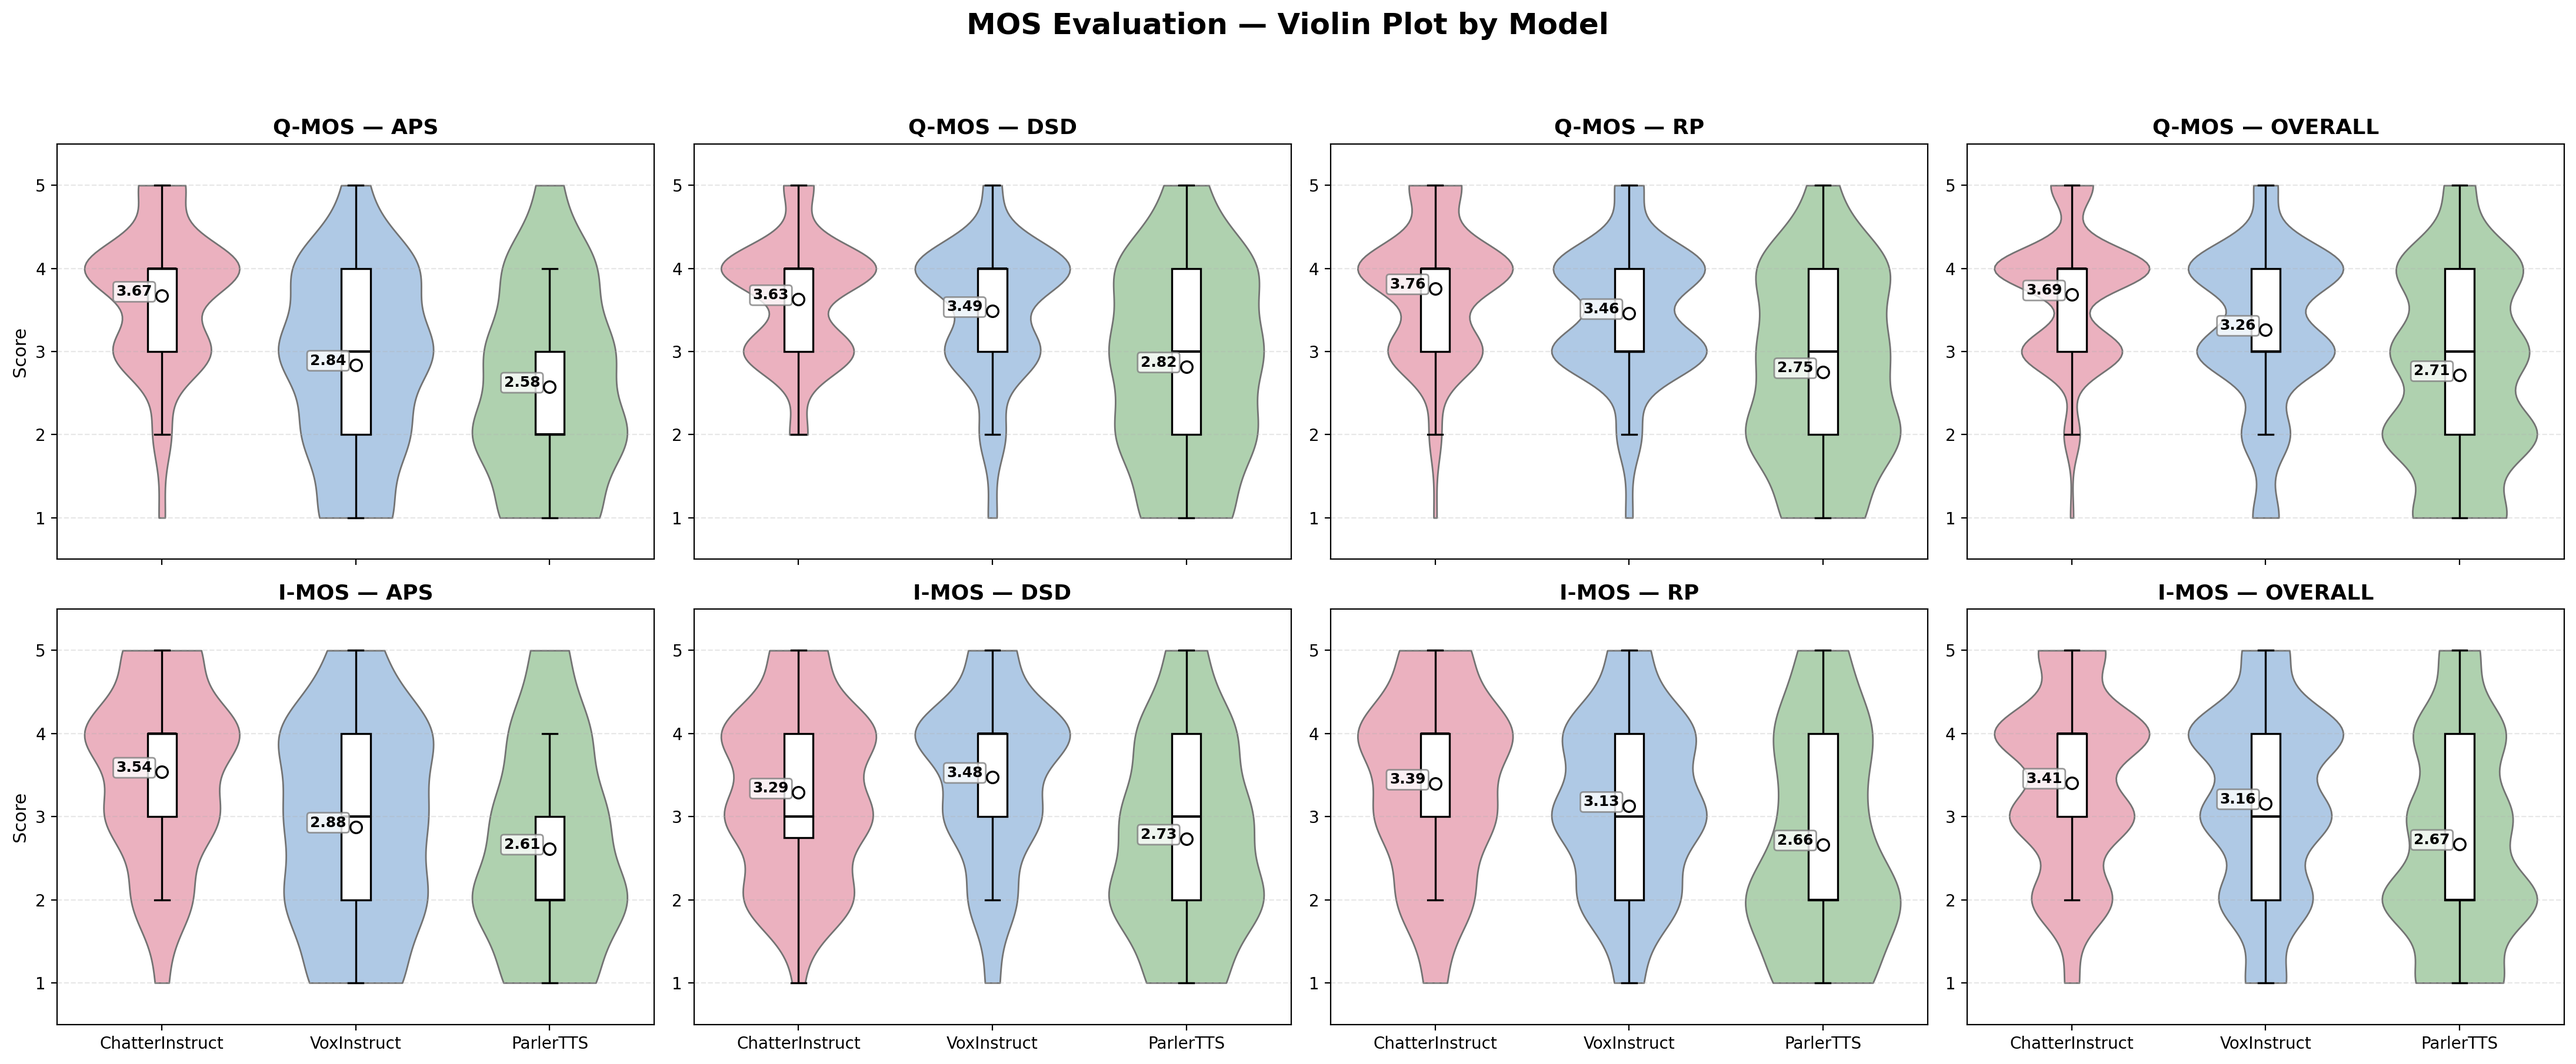
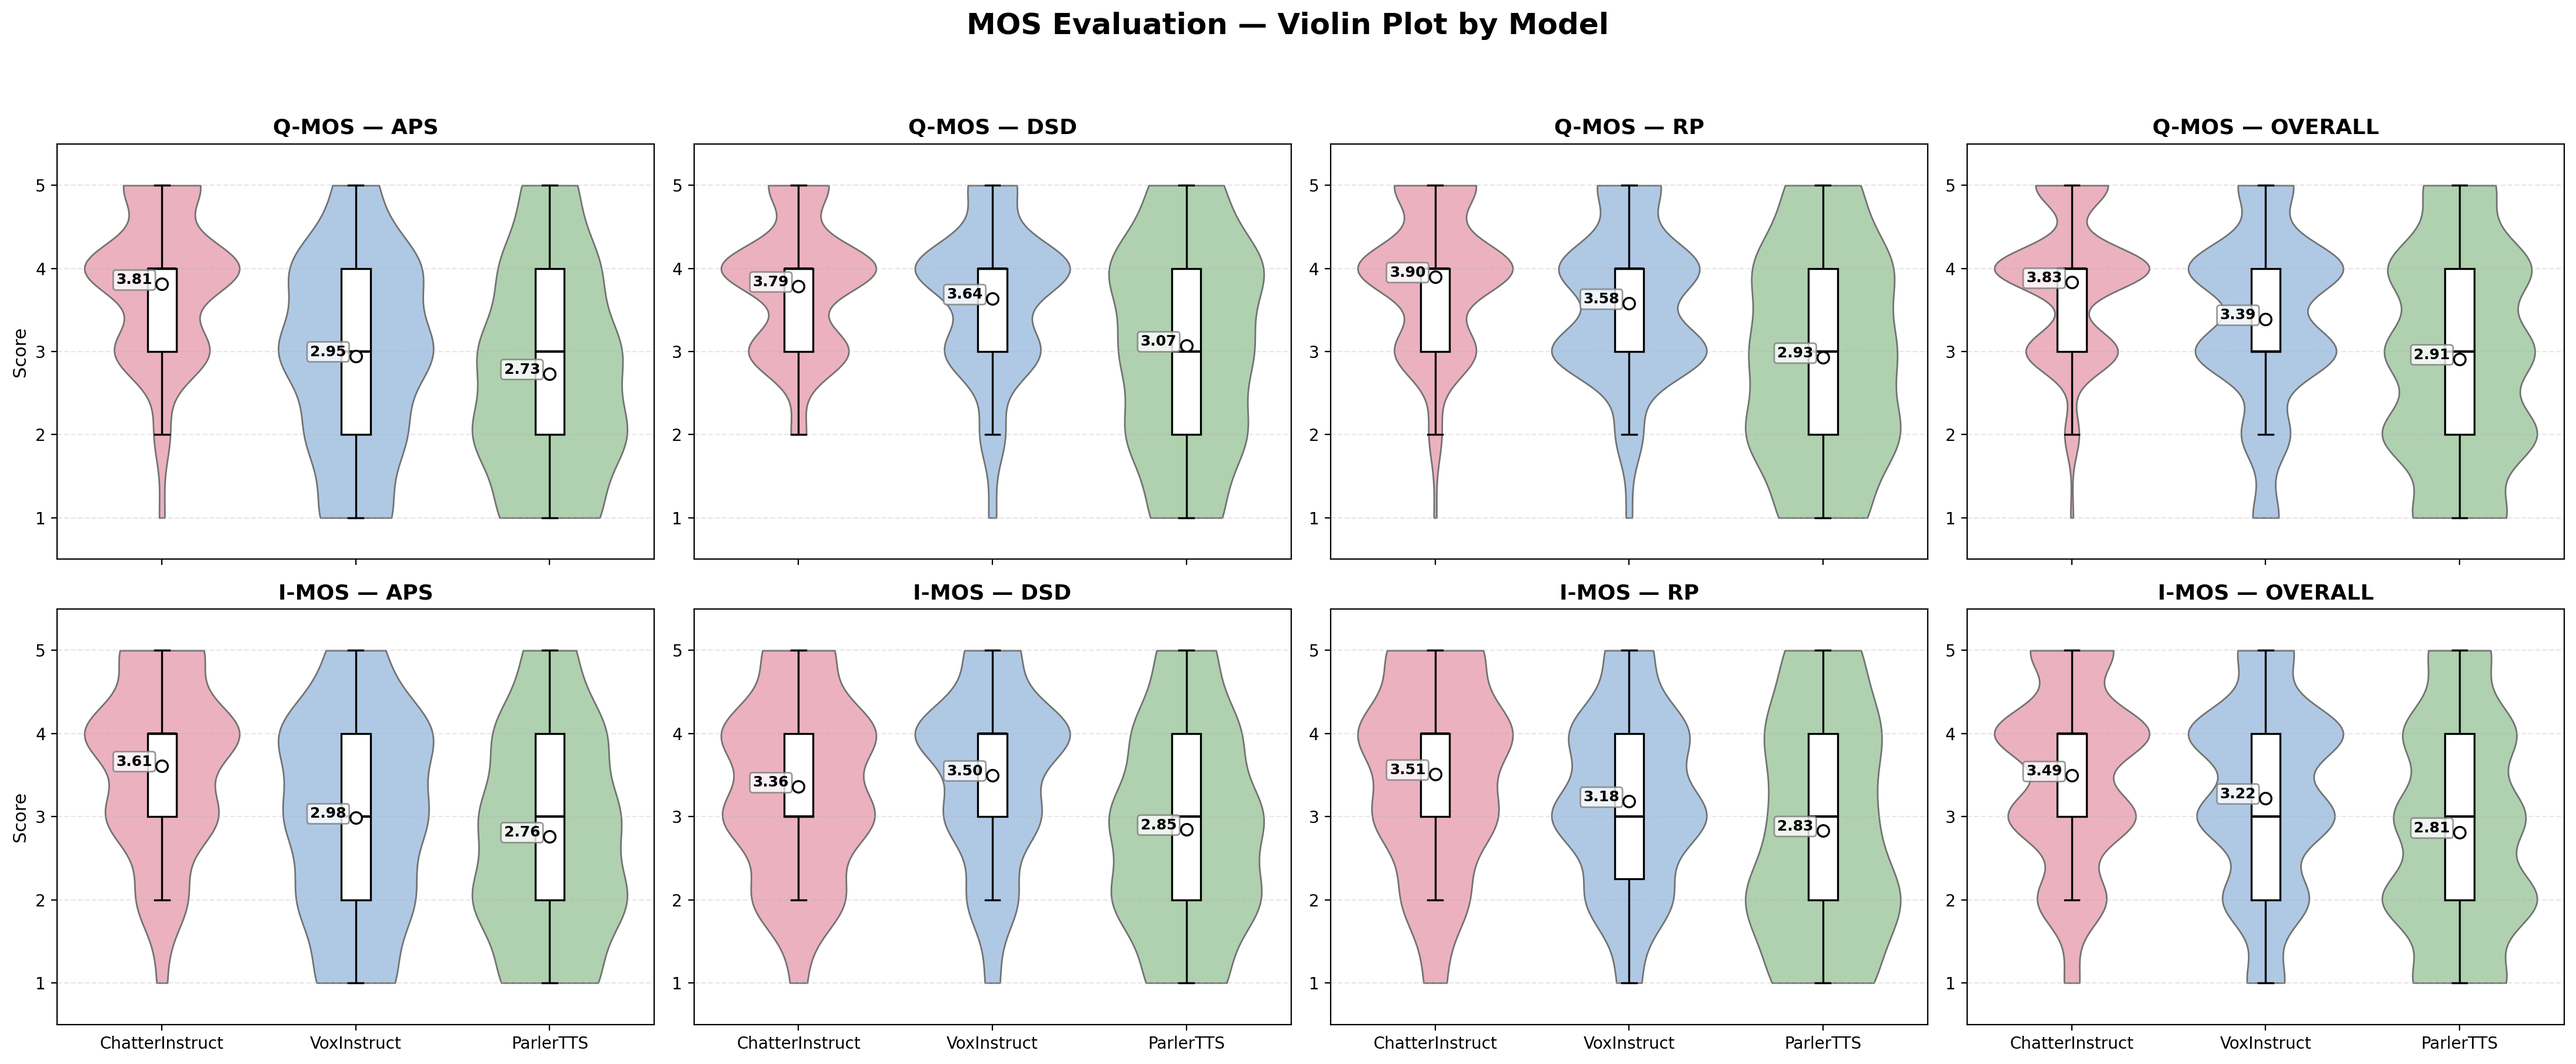
modify score

diff --git a/index.html b/index.html
@@ -153,8 +153,8 @@
             Flan-T5 encoder with Dual-Query attention pooling extracts separate identity and style vectors from a single
             instruction. A conditional flow-matching mapper generates speaker latents from the identity vector, while
             AdaRMSNorm adapters inject style into a frozen Llama backbone without disturbing speaker characteristics. A
-            two-stage training strategy enforces this separation by construction. ChatterInstruct surpasses robust
-            baselines including GPT-4o-mini-TTS on InstructTTSEval, while attaining competitive zero-shot speaker
+            two-stage training strategy enforces this separation by construction. ChatterInstruct surpasses strong
+            baselines including GPT-4o-mini-TTS on InstructTTSEval, while attaining strong zero-shot speaker
             similarity on LibriTTS-R.
         </div>
 
@@ -226,14 +226,47 @@
                         Open-sourced</td>
                 </tr>
                 <tr>
+                    <td style="text-align: left;">PromptTTS</td>
+                    <td>64.3</td>
+                    <td>47.2</td>
+                    <td>31.4</td>
+                    <td>47.6</td>
+                    <td>-</td>
+                    <td>-</td>
+                    <td>-</td>
+                    <td>-</td>
+                </tr>
+                <tr>
+                    <td style="text-align: left;">PromptStyle</td>
+                    <td>57.4</td>
+                    <td>46.4</td>
+                    <td>30.9</td>
+                    <td>44.9</td>
+                    <td>-</td>
+                    <td>-</td>
+                    <td>-</td>
+                    <td>-</td>
+                </tr>
+                <tr>
+                    <td style="text-align: left;">Parler-TTS-large</td>
+                    <td>60.0</td>
+                    <td>45.9</td>
+                    <td>31.2</td>
+                    <td>45.7</td>
+                    <td>-</td>
+                    <td>-</td>
+                    <td>-</td>
+                    <td>-</td>
+                </tr>
+                <tr>
                     <td style="text-align: left;">Parler-TTS-mini</td>
                     <td>63.4</td>
                     <td>48.7</td>
                     <td>28.6</td>
                     <td>46.9</td>
                     <td>0.716 &pm; 0.119</td>
-                    <td>2.714 &pm; 0.128</td>
-                    <td>2.670 &pm; 0.134</td>
+                    <td>2.911 &pm; 0.123</td>
+                    <td>2.813 &pm; 0.124</td>
                     <td>11.1</td>
                 </tr>
                 <tr>
@@ -243,8 +276,8 @@
                     <td>39.3</td>
                     <td>50.4</td>
                     <td>0.740 &pm; 0.118</td>
-                    <td>3.260 &pm; 0.108</td>
-                    <td>3.159 &pm; 0.124</td>
+                    <td>3.387 &pm; 0.103</td>
+                    <td>3.223 &pm; 0.110</td>
                     <td>24.0</td>
                 </tr>
                 <tr class="ours">
@@ -254,14 +287,14 @@
                     <td><strong>59.6</strong></td>
                     <td><strong>70.5</strong></td>
                     <td><strong>0.852 &pm; 0.074</strong></td>
-                    <td><strong>3.686 &pm; 0.089</strong></td>
-                    <td><strong>3.407 &pm; 0.117</strong></td>
+                    <td><strong>3.833 &pm; 0.083</strong></td>
+                    <td><strong>3.494 &pm; 0.105</strong></td>
                     <td><strong>2.5</strong></td>
                 </tr>
             </tbody>
         </table>
 
-        <!-- <p><strong>Perceptual and intelligibility evaluation.</strong> ChatterInstruct achieves the highest Q-MOS (3.647 &pm; 0.102) and I-MOS (3.331 &pm; 0.134), indicating superior naturalness and instruction adherence as judged by human raters. VoxInstruct obtains moderate perceptual scores (Q-MOS 3.297 &pm; 0.122, I-MOS 3.124 &pm; 0.143), while Parler-TTS-mini lags behind on both scales (Q-MOS 2.671 &pm; 0.146, I-MOS 2.682 &pm; 0.156). Intelligibility follows a similar trend: ChatterInstruct attains a WER of 2.5%, substantially lower than Parler-TTS-mini (11.1%) and VoxInstruct (24.0%), confirming that the frozen backbone preserves high-fidelity text rendering while the style pathway does not degrade articulation.</p> -->
+        <!-- <p><strong>Perceptual and intelligibility evaluation.</strong> ChatterInstruct achieves the highest Q-MOS (3.833 &pm; 0.083) and I-MOS (3.494 &pm; 0.105), indicating superior naturalness and instruction adherence as judged by human raters. VoxInstruct obtains moderate perceptual scores (Q-MOS 3.387 &pm; 0.103, I-MOS 3.223 &pm; 0.110), while Parler-TTS-mini lags behind on both scales (Q-MOS 2.911 &pm; 0.123, I-MOS 2.813 &pm; 0.124). Intelligibility follows a similar trend: ChatterInstruct attains a WER of 2.5%, substantially lower than Parler-TTS-mini (11.1%) and VoxInstruct (24.0%), confirming that the frozen backbone preserves high-fidelity text rendering while the style pathway does not degrade articulation.</p> -->
 
         <img src="images/new_task_img.png" alt="InstructTTSEval Results" class="architecture-img">
         <img src="images/q_mos_violin.png" alt="Q-MOS Results" class="architecture-img">
@@ -270,10 +303,10 @@
         <h3>2.2. Zero-Shot Speaker Generation (LibriTTS-R)</h3>
         <!-- <p>While the table above evaluates identity stability across diverse instruction formats, the following assesses
             absolute voice cloning fidelity on LibriTTS-R test-clean. ChatterInstruct attains the highest SECS of
-            <strong>0.7881</strong>, significantly exceeding ParlerTTS (0.7416) and VoxInstruct (0.7172) (<em>p</em>
+            <strong>0.788</strong>, significantly exceeding Parler-TTS-mini (0.742) and VoxInstruct (0.717) (<em>p</em>
             &ll; 0.01, Wilcoxon signed-rank test), validating the CFM Mapper's ability to map disentangled identity cues
-            to speaker latents. Intra-speaker consistency reaches <strong>0.8937 &pm; 0.0385</strong> (41% lower std.
-            dev. than ParlerTTS at 0.8084 &pm; 0.0651), confirming robust zero-shot stability.</p> -->
+            to speaker latents. Intra-speaker consistency reaches <strong>0.894 &pm; 0.039</strong> (40% lower std.
+            dev. than Parler-TTS-mini at 0.808 &pm; 0.065), confirming robust zero-shot stability.</p> -->
 
         <div style="display: flex; gap: 20px; justify-content: center; flex-wrap: wrap; margin: 20px 0;">
             <div style="flex: 1; min-width: 300px; text-align: center;">
@@ -281,7 +314,7 @@
                     style="margin: 0; max-height: 400px; object-fit: contain;">
                 <p style="margin-top: 10px; font-size: 0.9em; color: #555;"><strong>Figure 2a: Zero-Shot Speaker
                         Similarity (SECS).</strong> ChatterInstruct achieves the highest SECS of
-                    <strong>0.7881</strong>, surpassing ParlerTTS (0.7416) and VoxInstruct (0.7172). This metric
+                    <strong>0.788</strong>, surpassing Parler-TTS-mini (0.742) and VoxInstruct (0.717). This metric
                     measures the cosine similarity between WavLM-Base-Plus embeddings of generated audio and
                     ground-truth utterances, validating the Flow Matching Mapper's effectiveness in mapping disentangled
                     identity cues to accurate speaker latents.
@@ -292,8 +325,8 @@
                     style="margin: 0; max-height: 400px; object-fit: contain;">
                 <p style="margin-top: 10px; font-size: 0.9em; color: #555;"><strong>Figure 2b: Speaker Generation
                         Stability.</strong> ChatterInstruct demonstrates superior intra-speaker consistency, reaching
-                    <strong>0.8937 ± 0.0385</strong>. This represents a <strong>41% reduction in standard
-                        deviation</strong> compared to ParlerTTS (0.8084 ± 0.0651), confirming robust zero-shot
+                    <strong>0.894 &pm; 0.039</strong>. This represents a <strong>40% reduction in standard
+                        deviation</strong> compared to Parler-TTS-mini (0.808 &pm; 0.065), confirming robust zero-shot
                     stability and consistent speaker identity across multiple generations without needing reference
                     audio.
                 </p>
